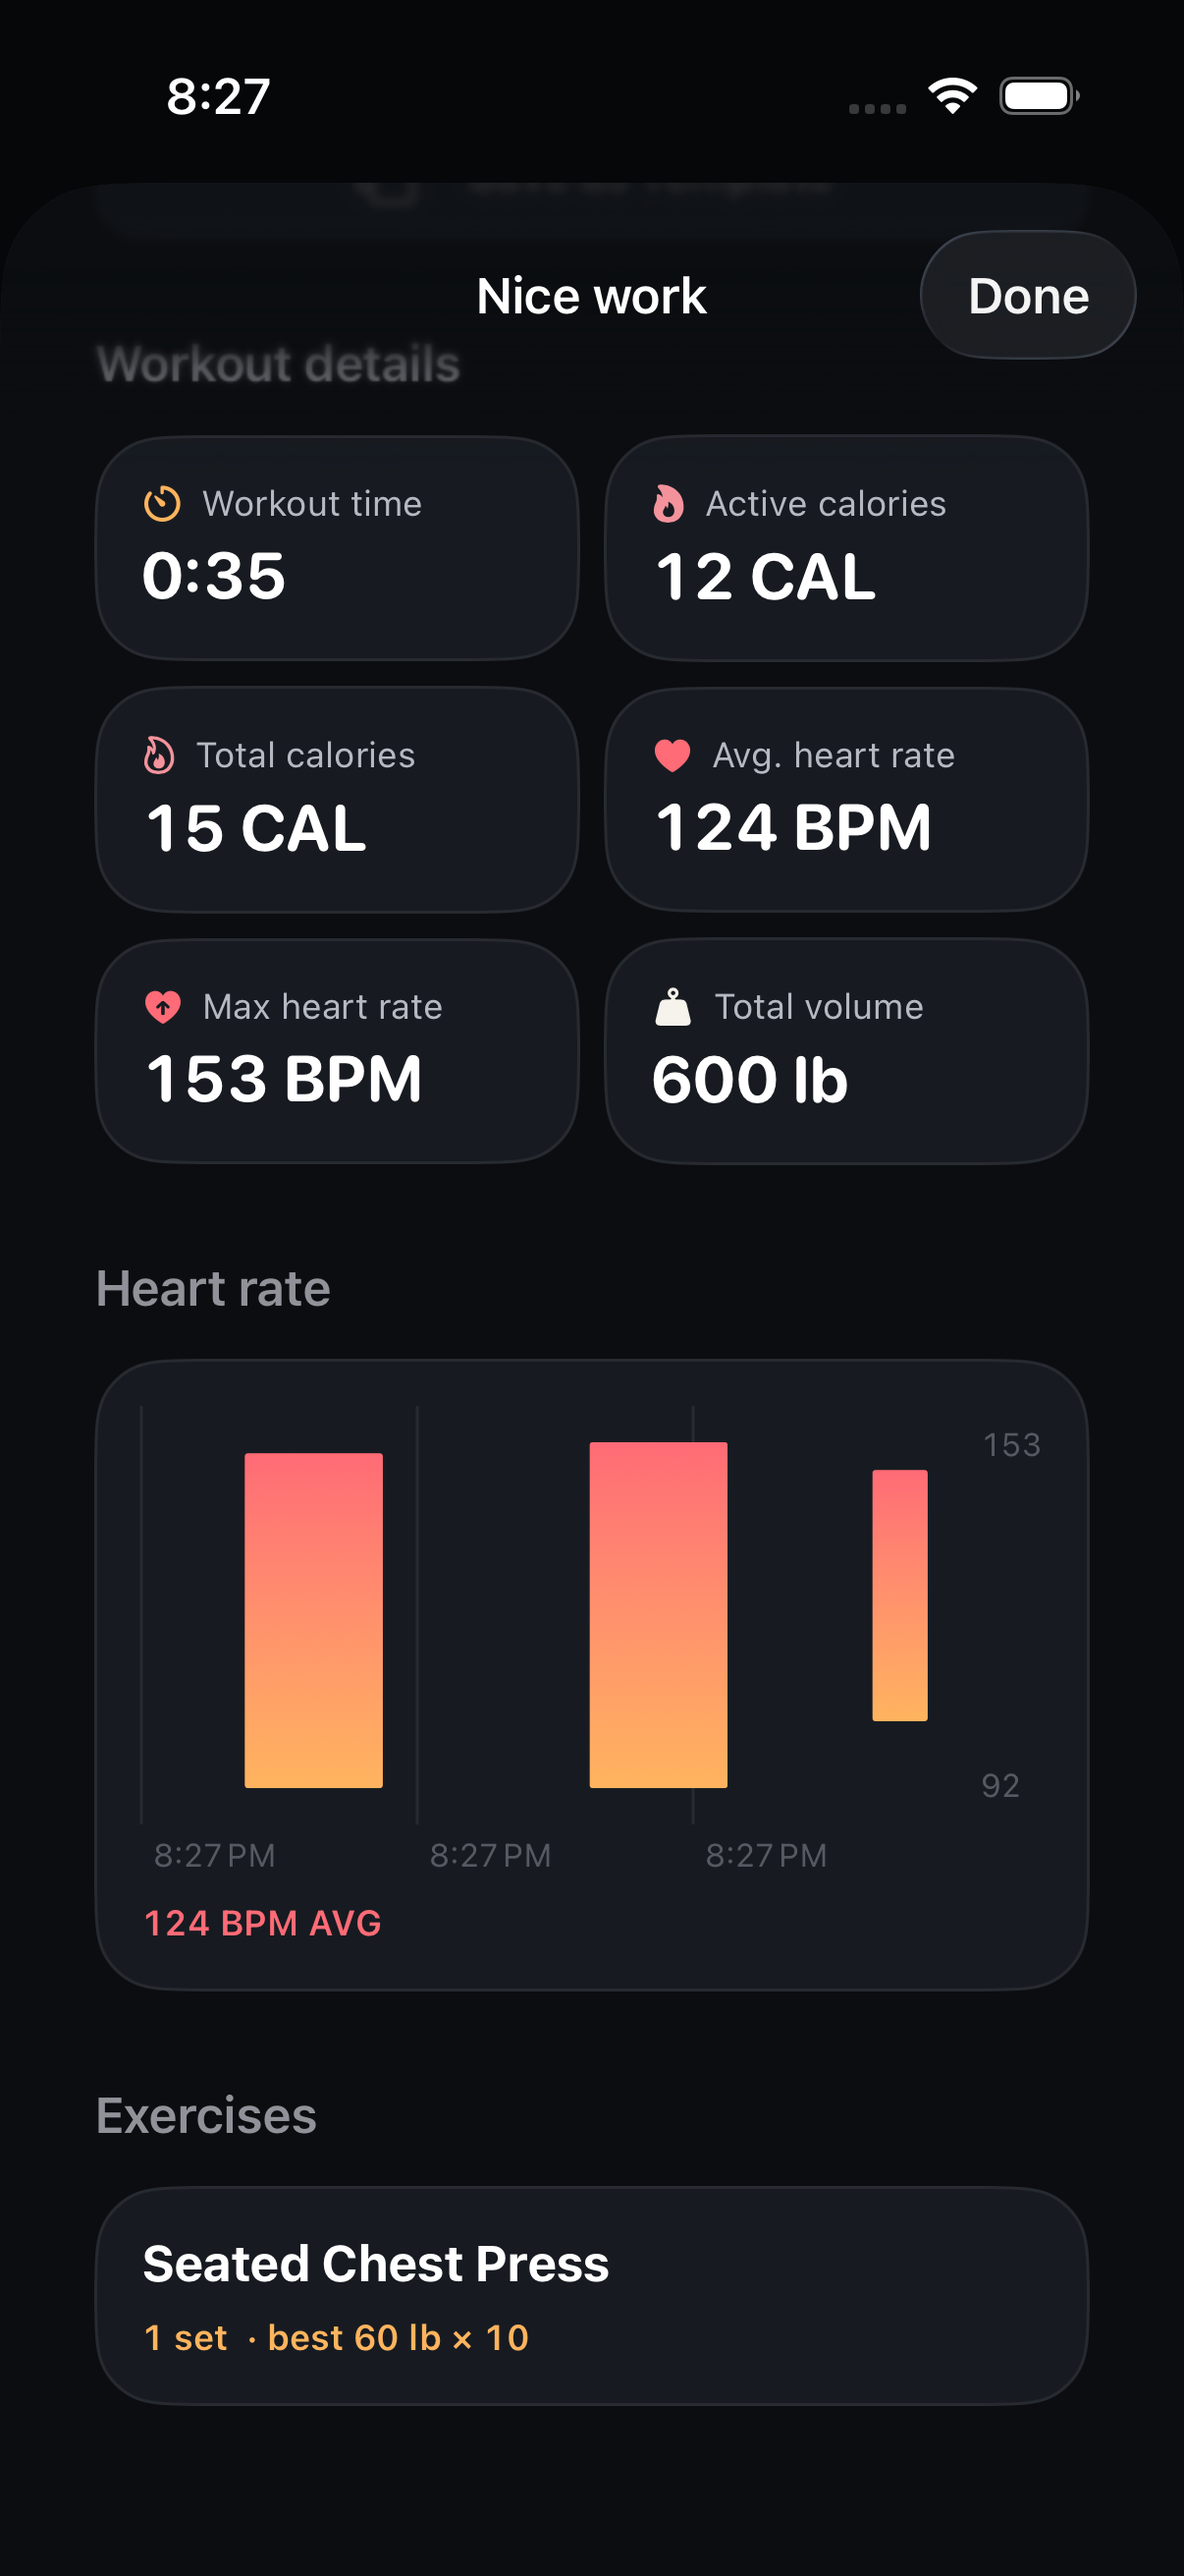
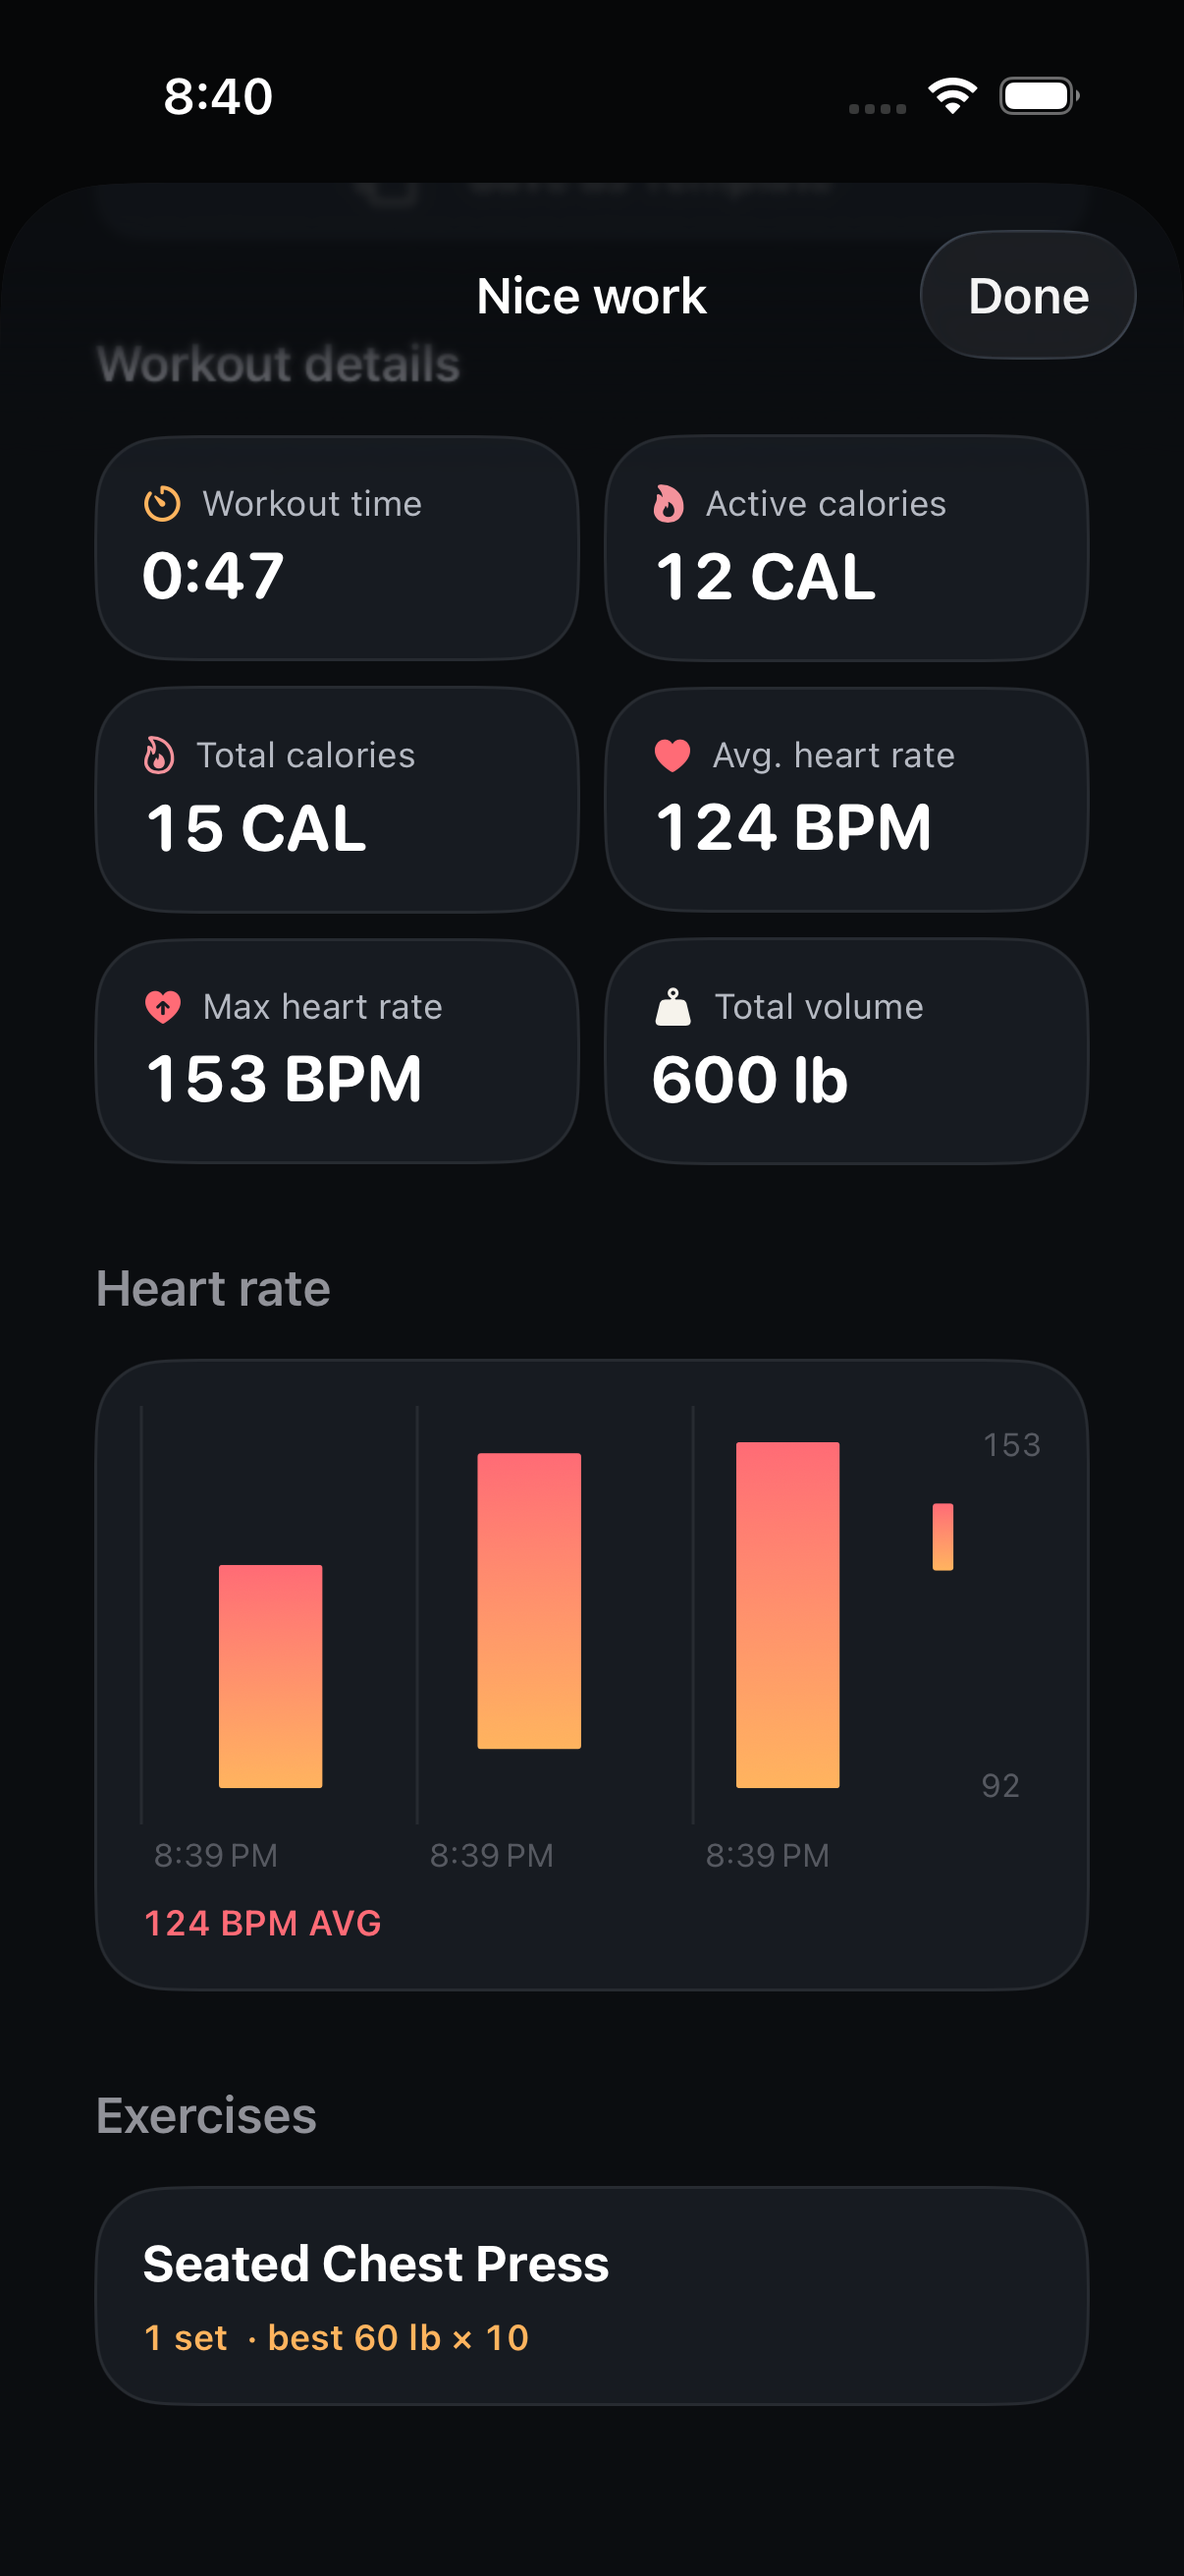
UI redesign 03: codex-review-03c fix — one tile column at accessibility text sizes (no more "126 B…"), one clock label on the chart at those sizes; recaptured
Claude-Session: https://claude.ai/code/session_017NcHt6gES8nUD5LYcK9j4B

diff --git a/WorkoutTracker/Features/History/HeartRateSummarySection.swift b/WorkoutTracker/Features/History/HeartRateSummarySection.swift
@@ -35,6 +35,7 @@ struct HeartRateSummarySection: View {
     let startedAt: Date
     let averageBpm: Int?
     let maxBpm: Int?
+    @Environment(\.dynamicTypeSize) private var dynamicTypeSize
 
     private var xEnd: Int {
         HeartRateSeriesMath.plotExtentSeconds(
@@ -62,6 +63,12 @@ struct HeartRateSummarySection: View {
     /// plot's right edge.
     private var timeTicks: [Double] {
         [0, Double(xEnd) / 3, Double(xEnd) * 2 / 3]
+    }
+
+    /// At accessibility text sizes three clock labels collide; the separators
+    /// stay, only the first is labelled.
+    private var labelledTicks: Set<Double> {
+        dynamicTypeSize.isAccessibilitySize ? [0] : Set(timeTicks)
     }
 
     var body: some View {
@@ -120,7 +127,7 @@ struct HeartRateSummarySection: View {
                 AxisGridLine(stroke: StrokeStyle(lineWidth: 1))
                     .foregroundStyle(Theme.hairline)
                 AxisValueLabel(anchor: .topLeading) {
-                    if let seconds = value.as(Double.self) {
+                    if let seconds = value.as(Double.self), labelledTicks.contains(seconds) {
                         Text(clockLabel(elapsed: seconds))
                             .font(.caption2)
                             .foregroundStyle(.secondary)

diff --git a/WorkoutTracker/Features/ActiveWorkout/WorkoutFinishedSheet.swift b/WorkoutTracker/Features/ActiveWorkout/WorkoutFinishedSheet.swift
@@ -19,6 +19,7 @@ struct WorkoutFinishedSheet: View {
     var viewInHistory: () -> Void
     var done: () -> Void
 
+    @Environment(\.dynamicTypeSize) private var dynamicTypeSize
     @State private var namingTemplate = false
     @State private var templateName = ""
     @State private var templateFailure: String?
@@ -220,7 +221,10 @@ struct WorkoutFinishedSheet: View {
             // out — now every figure is a tile (D54). Every tile is still
             // OMITTED, not zeroed, when its fact is missing (D44) — a block
             // with a hole is honest; a block with a 0 is not.
-            LazyVGrid(columns: [GridItem(.flexible()), GridItem(.flexible())], spacing: Theme.Space.small) {
+            // One column at accessibility sizes: two columns truncated the
+            // BPM values ("126 B…") at AccessibilityL (codex-review-03b).
+            LazyVGrid(columns: Array(repeating: GridItem(.flexible()), count: dynamicTypeSize.isAccessibilitySize ? 1 : 2),
+                      spacing: Theme.Space.small) {
                 tile("Workout time", Format.duration(seconds: Int(summary.duration)), symbol: "timer",
                      tint: Theme.accent, id: "summaryTime")
                 if let calories = summary.activeEnergyKilocalories {

diff --git a/.scratch/ui-redesign/codex-review-03c.md b/.scratch/ui-redesign/codex-review-03c.md
@@ -1,0 +1,9 @@
+# Ticket 03 — Codex round 3 (T6)
+
+Reviewed `538483a..73379e4` on `ui-redesign-03` (one commit), the round-2 response, and both committed AXL captures. Line references below are at `73379e4`; concurrent uncommitted source edits are outside this review. No source modifications, xcodebuild, or simctl; app test suites were not rerun.
+
+- **P3 — AXL heart-rate values still truncate.** `WorkoutTracker/Features/ActiveWorkout/WorkoutFinishedSheet.swift:223` retains the two-column grid, while `WorkoutTracker/Features/Design/StatTile.swift:20` limits each value to one line with a 0.8 minimum scale. The two captures collectively show all six tiles and their complete labels, but `screenshots/03/03-finish-summary-axl-2.png` visibly renders the average as **“126 B…”** and maximum as **“151 B…”**, losing the complete BPM unit. The new bounded capture at `WorkoutTrackerUITests/RedesignScreenshotUITests.swift:84` closes the evidence gap but demonstrates that the no-truncation requirement remains unmet. Make both complete value/unit strings fit at AccessibilityL and recapture the grid before closure. This is an existing layout defect newly exposed by the capture, not a regression caused by the scrolling fix.
+
+The round-2 **P2 is closed**: every helper return path preserves input cardinality, including zero/negative width and gaps that do not fit, and the card guards its nonnegative enumerated index. All eight tests are present. The sweep's wrapping `UInt64` LCG and high-bit sampling are sound; its independent cardinality assertion prevents an empty result from passing the bounds check vacuously. The bounds assertion meaningfully checks each segment (including rejecting NaN/infinity) within a 0.001 upper tolerance; aggregate conservation is covered separately, not asserted by the sweep. Independently executing the unchanged helper and exact generator in a temporary Swift script passed all 2,000 cases: all six counts, 395 distinct widths, three zero-width cases, and 25 unaffordable-gap cases. Negative width and all-zero values are covered by explicit tests. An additional sum check had maximum error `5.7e-14`.
+
+No independent standards violations or other introduced regressions found. One P3 remains; not clear.

diff --git a/.scratch/ui-redesign/issues/03-finish-summary.md b/.scratch/ui-redesign/issues/03-finish-summary.md
@@ -1,6 +1,6 @@
 # 03 — Finish summary: status ring, tiles, zone bar, chart card
 
-Status: built 2026-09-10 on `ui-redesign-03` — Codex rounds 1–2 answered, awaiting round 3
+Status: built 2026-09-10 on `ui-redesign-03` — Codex rounds 1–3 answered, awaiting round 4
 
 Spec: `.scratch/ui-redesign/spec.md` ticket 03, on the chosen Ink / Amber system.
 
@@ -69,3 +69,14 @@ in the first screen. Screenshots: `screenshots/03/` — sent to the user.
 - **P3, the AXL capture showed only the first tile row.** `test03_finishSummaryLargeText` now
   scrolls (bounded) until `summaryVolume` — the last tile — is hittable and captures again
   (`03-finish-summary-axl-2.png`): all six tiles at AccessibilityL, the BPM values included.
+
+## Codex review 03c — response (2026-09-10)
+
+`codex-review-03c.md`: the round-2 P2 closed (Codex re-ran the helper on the sweep's 2,000
+cases); one P3 — the AXL values still truncated ("126 B…").
+
+- **P3, BPM values truncated at AccessibilityL.** The tile grid is now ONE column at
+  accessibility sizes (`dynamicTypeSize.isAccessibilitySize`), two otherwise; the recapture
+  (`03-finish-summary-axl-2.png`) shows "126 BPM" and "151 BPM" whole. While there: the chart's
+  three clock labels collided at that size, so only the first is labelled at accessibility
+  sizes (the separators stay). Both flows re-run green.

diff --git a/.scratch/ui-redesign/codex-review-03c-prompt.md b/.scratch/ui-redesign/codex-review-03c-prompt.md
@@ -1,0 +1,16 @@
+Round 3 (T6) of UI-redesign ticket 03 (finish summary). Round-2 review:
+.scratch/ui-redesign/codex-review-03b.md; the response is in
+.scratch/ui-redesign/issues/03-finish-summary.md under "Codex review 03b — response".
+Boundary of the fixes: 538483a..HEAD on branch ui-redesign-03 (one commit).
+
+Scope: are the two round-2 findings closed exactly —
+1. `ZoneBarLayout.widths` returns one width per value for every input (zero width, negative
+   width, gaps that do not fit); the card's subscript is guarded; the tests (8) pin it, including
+   the 2,000-case sweep — is the sweep's generator sound and its bounds assertion meaningful?
+2. The AXL captures: `screenshots/03/03-finish-summary-axl.png` and `-axl-2.png` — look at
+   both: all six tiles, no truncation of labels or the BPM values?
+And whether the fixes introduced anything new.
+
+Do NOT run xcodebuild or simctl. If closed, say "clear" in one paragraph; otherwise report by
+severity with file:line. Do not modify source files.
+Write to .scratch/ui-redesign/codex-review-03c.md
